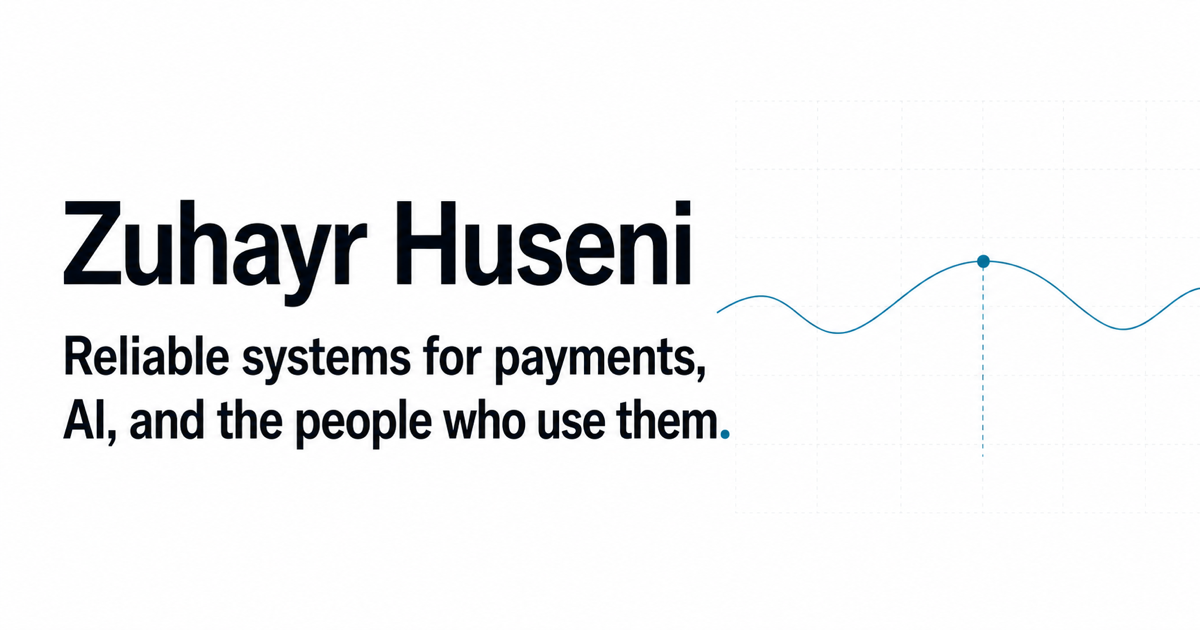
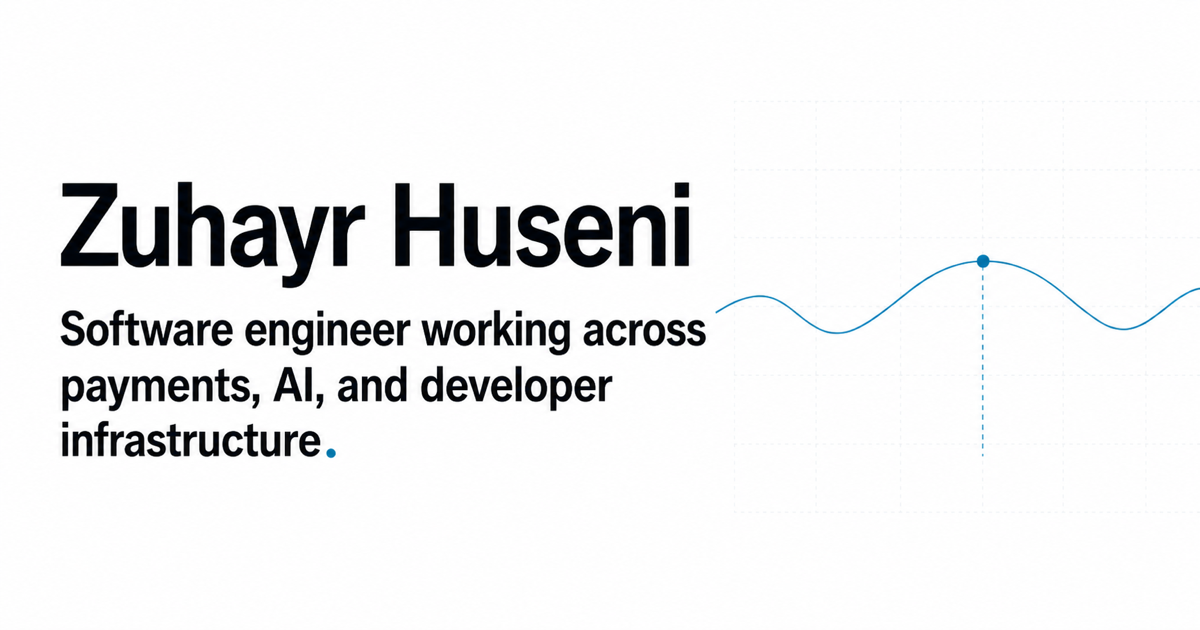
Refine portfolio typography and personal copy

diff --git a/app/content.ts b/app/content.ts
@@ -34,18 +34,21 @@ export const identity = {
 };
 
 export const hero = {
-  headline: "I build reliable systems for payments, AI, and the people who use them.",
-  dek: "Software engineer at PayPal with experience across distributed systems, developer infrastructure, 5G research, machine learning, and full-stack products.",
+  headline: "Software engineer working across payments, AI, and developer infrastructure.",
+  dek: "At PayPal, I build distributed compliance systems and internal developer tools. My experience also includes 5G research, machine learning, and full-stack products.",
 };
 
 export const about = {
-  title: "Adaptable by experience. Curious by default.",
+  title: "About me.",
   paragraphs: [
-    "My work spans big tech, startups, research, and industrial software. I learn unfamiliar domains quickly and enjoy moving between layers - from distributed services and infrastructure to products and interfaces - to build systems that are reliable, observable, and useful.",
-    "I am interested in technical roles at startups and large technology companies at the forefront of AI, especially AI infrastructure, developer tools, and human-computer interaction.",
+    "I am a software engineer at PayPal focused on distributed compliance systems and internal developer tools. Before PayPal, I worked in 5G research, manufacturing software, machine learning, and full-stack product development.",
+    "I learn new domains quickly and like work that spans infrastructure, backend systems, and product interfaces. I am especially interested in startups and established technology companies working on AI infrastructure, developer tools, and human-computer interaction.",
   ],
   interests: ["AI infrastructure", "Developer tools", "Human-computer interaction", "Distributed systems"],
-  personal: ["Basketball", "35 countries traveled"],
+  personal: [
+    "Outside work, I enjoy playing basketball and have traveled to 35 countries. I also played French horn in a concert band.",
+    "I have tried a wide range of side projects and hobbies, including YouTube channels, app development, and skiing.",
+  ],
   additional: {
     label: "London startup experience",
     company: "Host Family Stay",
@@ -64,7 +67,7 @@ export const experiences: Experience[] = [
     logo: "/brands/paypal.png",
     logoAlt: "PayPal",
     summary:
-      "I build distributed compliance services and developer infrastructure for PayPal's global Suspicious Activity Report platform, where transaction data, security boundaries, and jurisdiction-specific requirements meet.",
+      "I build distributed compliance services and internal developer tools for PayPal's global Suspicious Activity Report platform. The work involves transaction data, secure service boundaries, and jurisdiction-specific requirements.",
     highlights: [
       {
         id: "compliance",
@@ -120,7 +123,7 @@ export const experiences: Experience[] = [
     logo: "/brands/forms-surfaces.png",
     logoAlt: "Forms + Surfaces",
     summary:
-      "I built software for two expensive questions: finding manufacturing data quickly and validating physical designs before they became prototypes.",
+      "I built internal software to help teams retrieve manufacturing data and validate physical designs before prototyping.",
     highlights: [
       {
         id: "erp-search",
@@ -152,7 +155,7 @@ export const experiences: Experience[] = [
     logo: "/brands/uconn.jpg",
     logoAlt: "University of Connecticut",
     summary:
-      "I benchmarked live 5G systems close to the wire, combining repeatable Linux experiments with real-time visualization to find stability and performance bottlenecks.",
+      "I benchmarked live 5G systems through repeatable Linux experiments and real-time visualization, then used the results to identify stability and performance bottlenecks.",
     highlights: [
       {
         id: "benchmarking",
@@ -181,7 +184,7 @@ export const experiences: Experience[] = [
     url: "https://www.linkedin.com/company/propel-flow/",
     monogram: "PF",
     summary:
-      "I moved machine-learning work into client-facing services and improved the retrieval layer behind financial recommendation pipelines.",
+      "I deployed machine-learning services and improved retrieval for financial recommendation pipelines.",
     highlights: [
       {
         id: "inference",

diff --git a/app/globals.css b/app/globals.css
@@ -9,14 +9,6 @@
 }
 
 @font-face {
-  font-family: "Public Sans Variable";
-  src: url("/fonts/public-sans-latin.woff2") format("woff2");
-  font-style: normal;
-  font-weight: 100 900;
-  font-display: swap;
-}
-
-@font-face {
   font-family: "IBM Plex Mono";
   src: url("/fonts/ibm-plex-mono-400-latin.woff2") format("woff2");
   font-style: normal;
@@ -42,7 +34,7 @@
   --line: rgba(6, 24, 31, 0.2);
   --line-soft: rgba(6, 24, 31, 0.09);
   --display: "Instrument Sans Variable", "Arial Narrow", sans-serif;
-  --body: "Public Sans Variable", Arial, sans-serif;
+  --body: -apple-system, BlinkMacSystemFont, "Segoe UI", Helvetica, Arial, sans-serif;
   --mono: "IBM Plex Mono", ui-monospace, monospace;
   --page-pad: clamp(1.25rem, 4vw, 4.5rem);
   --max: 1480px;
@@ -278,6 +270,7 @@ button,
 
 .hero-copy {
   align-self: center;
+  min-width: 0;
 }
 
 .hero-title {
@@ -326,6 +319,7 @@ button,
 .signal-shell {
   position: relative;
   align-self: center;
+  min-width: 0;
   border-top: 1px solid var(--line);
   border-bottom: 1px solid var(--line);
   background: var(--white);
@@ -477,7 +471,7 @@ button,
 .section-index,
 .project-period,
 .interest-list > p,
-.personal-list > p,
+.personal-label,
 .diagram-topline,
 .ledger-head {
   margin: 0;
@@ -498,6 +492,7 @@ button,
   font-weight: 680;
   line-height: 0.92;
   letter-spacing: -0.065em;
+  word-spacing: 0.08em;
 }
 
 .about-section {
@@ -506,7 +501,7 @@ button,
 
 .about-grid {
   display: grid;
-  grid-template-columns: minmax(280px, 1.15fr) minmax(210px, 0.58fr) minmax(190px, 0.42fr);
+  grid-template-columns: minmax(280px, 1.15fr) minmax(210px, 0.48fr) minmax(230px, 0.68fr);
   gap: clamp(2rem, 5vw, 5.5rem);
   margin-left: calc(28% + 2rem);
   padding-top: 1.5rem;
@@ -540,18 +535,31 @@ button,
 }
 
 .interest-list > p,
-.personal-list > p {
+.personal-label {
   margin-bottom: 1.3rem;
 }
 
-.interest-list > span,
-.personal-list > span {
+.interest-list > span {
   min-height: 48px;
   display: flex;
   align-items: center;
   gap: 0.8rem;
   border-bottom: 1px solid var(--line-soft);
   font-size: 0.82rem;
+}
+
+.personal-copy {
+  display: grid;
+  gap: 1rem;
+}
+
+.personal-copy p {
+  margin: 0;
+  padding-bottom: 1rem;
+  border-bottom: 1px solid var(--line-soft);
+  color: var(--copy);
+  font-size: 0.88rem;
+  line-height: 1.6;
 }
 
 .interest-list i {
@@ -1404,7 +1412,7 @@ button,
   }
 
   .hero-title {
-    font-size: clamp(3.25rem, 16vw, 4.5rem);
+    font-size: clamp(2.9rem, 14.6vw, 4.2rem);
     line-height: 0.91;
   }
 
@@ -1446,7 +1454,7 @@ button,
   }
 
   .interest-list > p,
-  .personal-list > p {
+  .personal-label {
     margin-top: 1rem;
   }
 

diff --git a/app/portfolio.tsx b/app/portfolio.tsx
@@ -298,8 +298,10 @@ export function Portfolio() {
             {about.interests.map((interest, index) => <span key={interest}><i>{String(index + 1).padStart(2, "0")}</i>{interest}</span>)}
           </div>
           <div className="personal-list">
-            <p>Outside work</p>
-            {about.personal.map((interest) => <span key={interest}>{interest}</span>)}
+            <p className="personal-label">Outside work</p>
+            <div className="personal-copy">
+              {about.personal.map((note) => <p key={note}>{note}</p>)}
+            </div>
           </div>
         </motion.div>
       </section>
@@ -311,7 +313,7 @@ export function Portfolio() {
       <section className="contact-section" id="contact" aria-labelledby="contact-title">
         <div className="contact-inner">
           <p className="section-index">05 / CONTACT</p>
-          <h2 id="contact-title">Let&apos;s build what&apos;s next<span className="signal-period">.</span></h2>
+          <h2 id="contact-title">Get in touch<span className="signal-period">.</span></h2>
           <CopyEmailButton />
           <nav className="contact-links" aria-label="Contact links">
             <a href={`mailto:${identity.email}`} data-magnetic data-cursor="EMAIL">Email <span>↗</span></a>

diff --git a/app/layout.tsx b/app/layout.tsx
@@ -34,7 +34,7 @@ export async function generateMetadata(): Promise<Metadata> {
           url: `${origin}/og.png`,
           width: 1200,
           height: 630,
-          alt: "Zuhayr Huseni - reliable systems for payments, AI, and the people who use them.",
+          alt: "Zuhayr Huseni - software engineer working across payments, AI, and developer infrastructure.",
         },
       ],
     },
